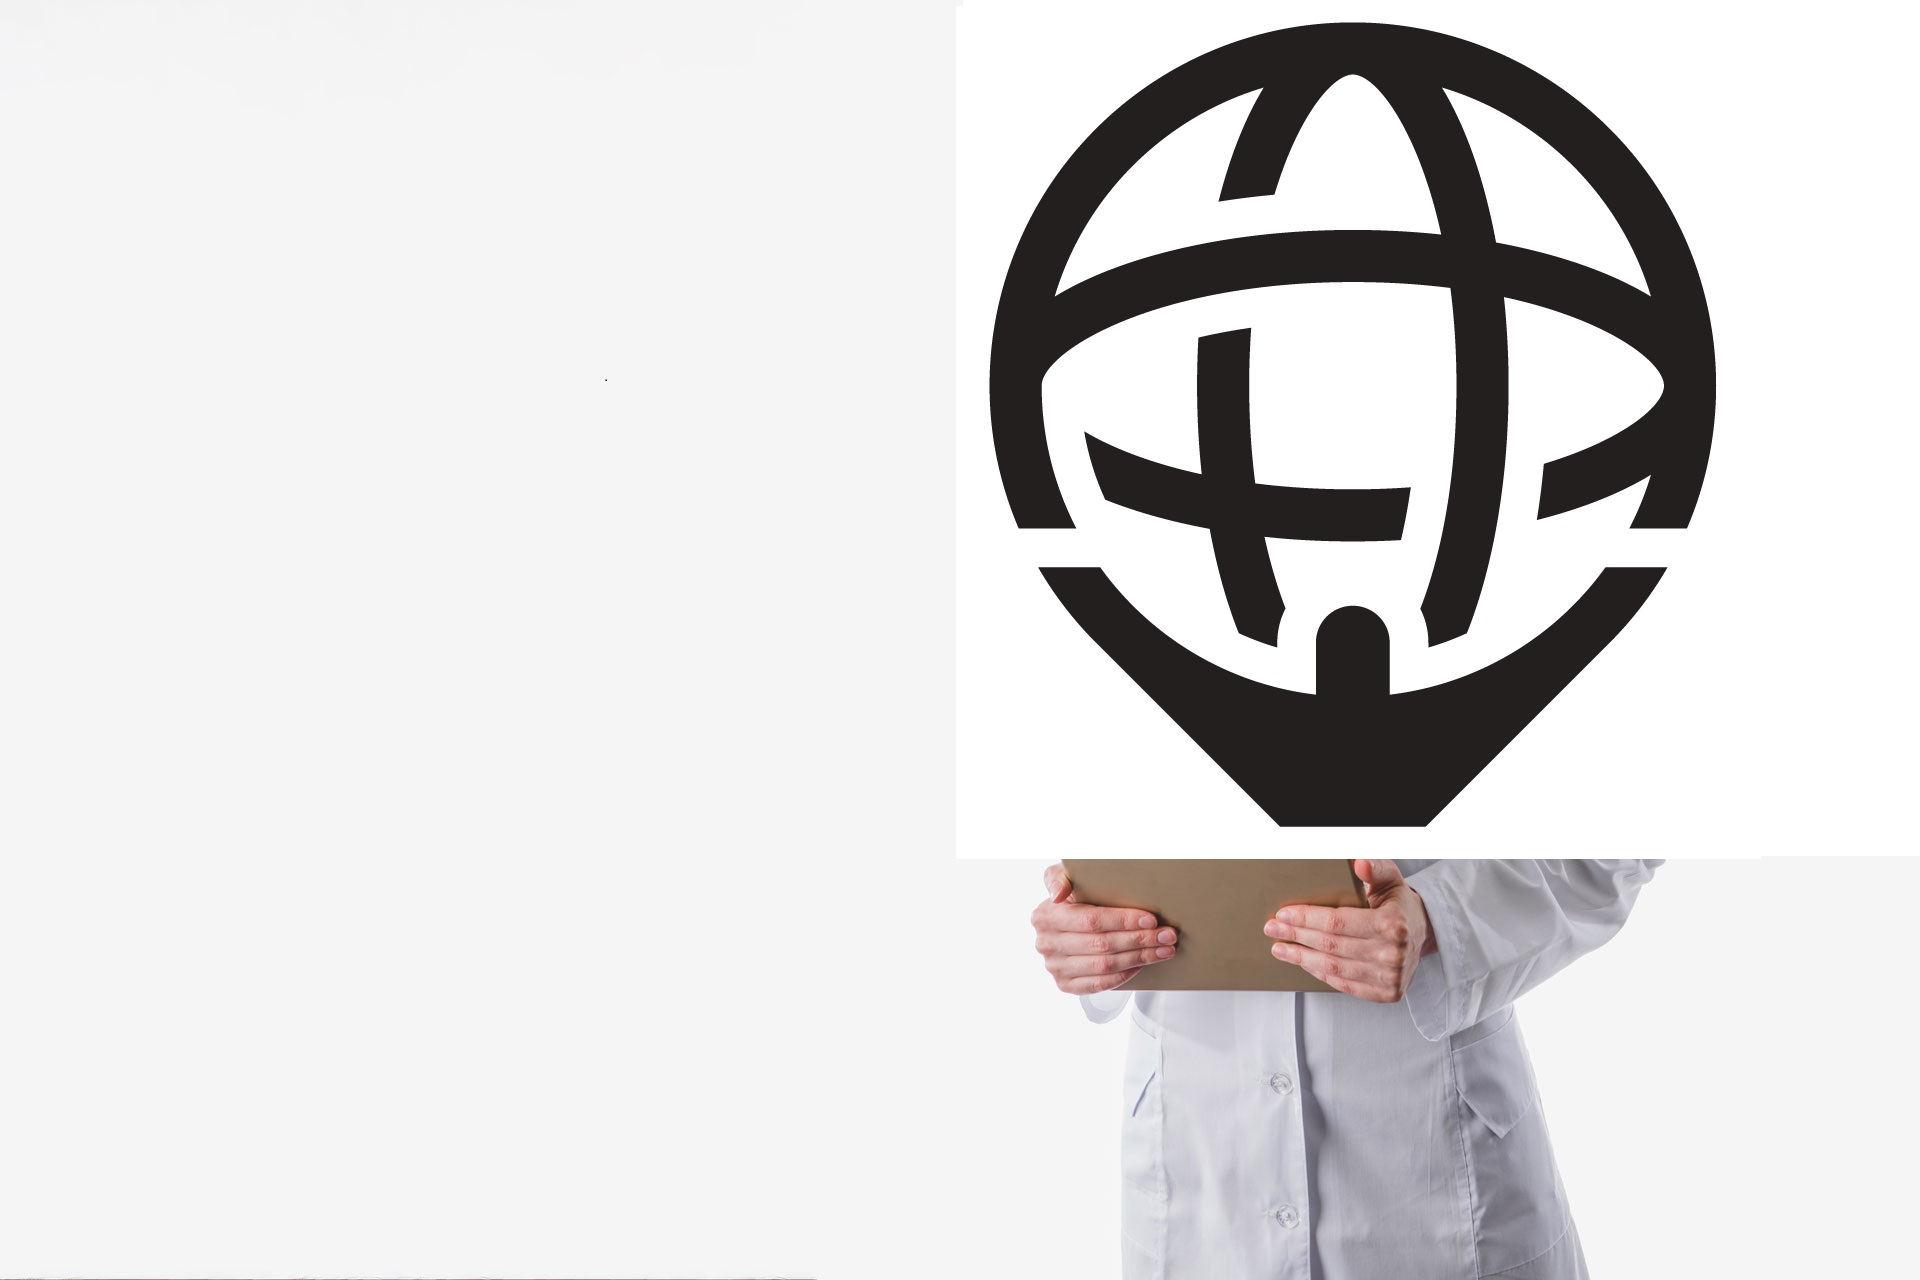
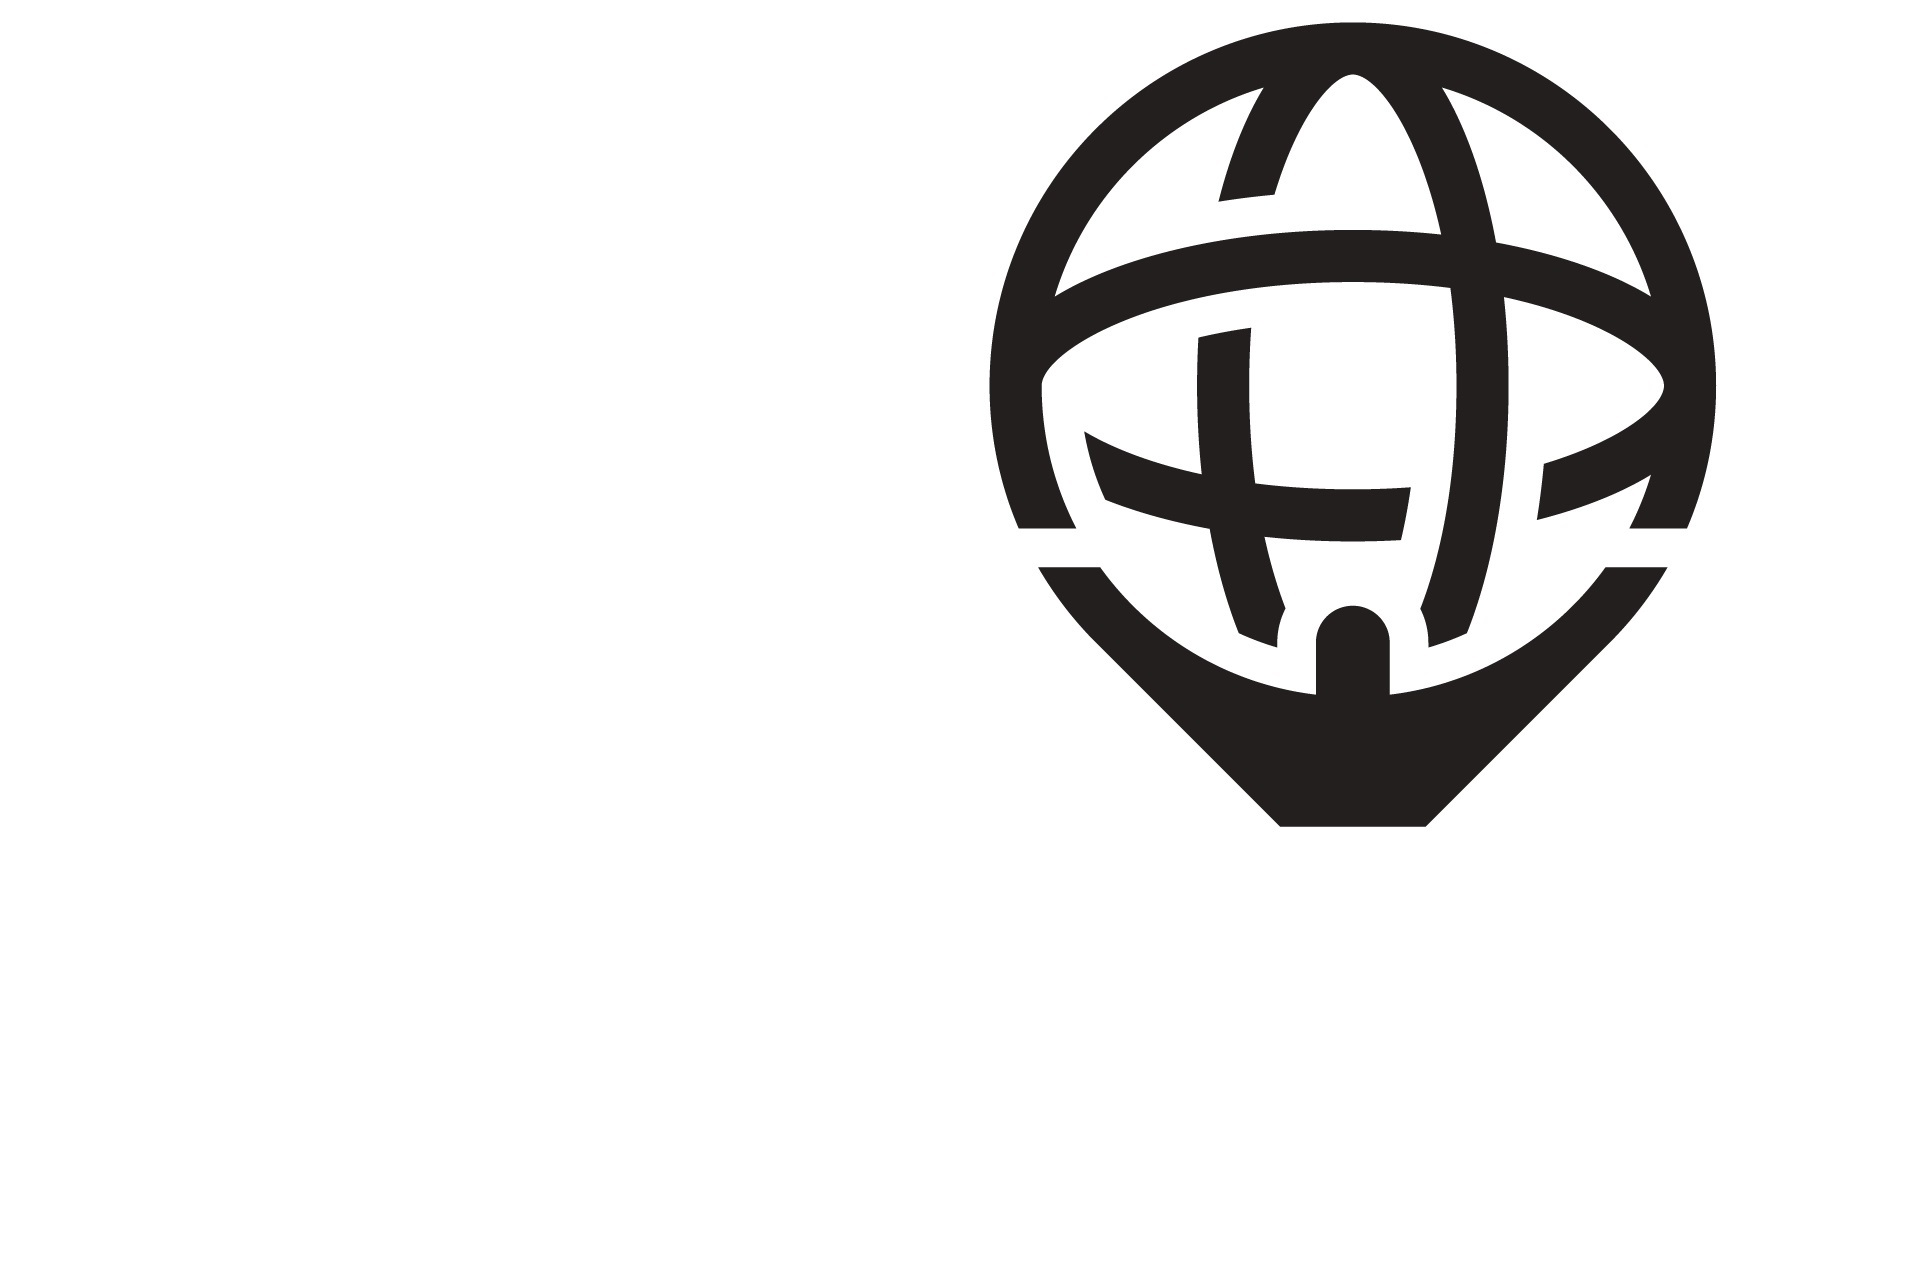
Completed Atlas page

Changed region(s): [[0.5312, 0.6562, 0.875, 1.0]]

diff --git a/routes/languages.js b/routes/languages.js
@@ -1,0 +1,48 @@
+const express = require("express");
+const router = express.Router();
+const dotenv = require("dotenv");
+const bodyParser = require("body-parser");
+const User = require("../models/user.js");
+dotenv.config();
+const app = express();
+
+app.use(bodyParser.json());
+app.use(bodyParser.urlencoded({ extended: true }));
+app.use(express.static("public"));
+
+app.use((req, res, next) => {
+  res.setHeader("Access-Control-Allow-Origin", "*");
+  res.setHeader("Access-Control-Allow-Headers", "*");
+  res.setHeader("Access-Control-Allow-Methods", "GET, POST, PATCH, DELETE");
+
+  next();
+});
+
+router.get("/", async(req, res)=>{
+    if(req.isAuthenticated()){
+        try {
+            res.render("languages");
+        } catch (error) {
+            res.render("error.ejs");
+        }
+    } else {
+        req.session.returnTo = req.originalUrl;
+        res.redirect("/login");
+      };
+})
+
+router.post("/", async(req, res)=>{
+    if(req.isAuthenticated()){
+        try {
+            await User.findByIdAndUpdate(req.user._id, {$set:{"atlasLanguage": req.body.language}});
+            res.redirect("/home")
+        } catch (error) {
+            res.render("error.ejs")
+        }
+    } else {
+        req.session.returnTo = req.originalUrl;
+        res.redirect("/login");
+      };
+})
+
+module.exports = router;

diff --git a/routes/users.js b/routes/users.js
@@ -25,7 +25,7 @@ app.use((req, res, next) => {
 router.get("/", async(req, res)=>{
   if (req.isAuthenticated()) {
     try {
-      let users = await User.find({"isActive": "True"}).sort({"id": 1});
+      let users = await User.find({"isActive": "True"}).sort({"name": 1});
       let results = await User.countDocuments({"isActive": "True"});
       let isAdmin = req.user.isAdmin;
       let loggedin = req.user.username
@@ -74,7 +74,8 @@ router.post("/register", async (req, res)=> {
             department: req.body.department,
             userId: userId,
             isAdmin: req.body.isAdmin,
-            isActive: req.body.isActive
+            isActive: req.body.isActive,
+            atlasLanguage: "English"
           }
         });
         res.redirect("/users/")

diff --git a/server.js b/server.js
@@ -23,6 +23,7 @@ const itemcontabil = require("./routes/itemcontabil.js");
 const branch = require("./routes/branch.js");
 const department = require("./routes/department.js");
 const atlas = require("./routes/atlas.js");
+const languages = require("./routes/languages.js");
 
 const app = express();
 
@@ -69,6 +70,7 @@ app.use("/itemcontabil", itemcontabil);
 app.use("/branch", branch);
 app.use("/department", department);
 app.use("/atlas", atlas);
+app.use("/languages", languages);
 
 app.listen(process.env.PORT, function () {
   console.log("Node.js operational at port " + process.env.PORT);

diff --git a/models/user.js b/models/user.js
@@ -11,7 +11,8 @@ const userSchema = new mongoose.Schema({
   department: String,
   userId: Number,
   isAdmin: String,
-  isActive: String
+  isActive: String,
+  atlasLanguage: String
 });
 
 userSchema.plugin(passportLocalMongoose);
